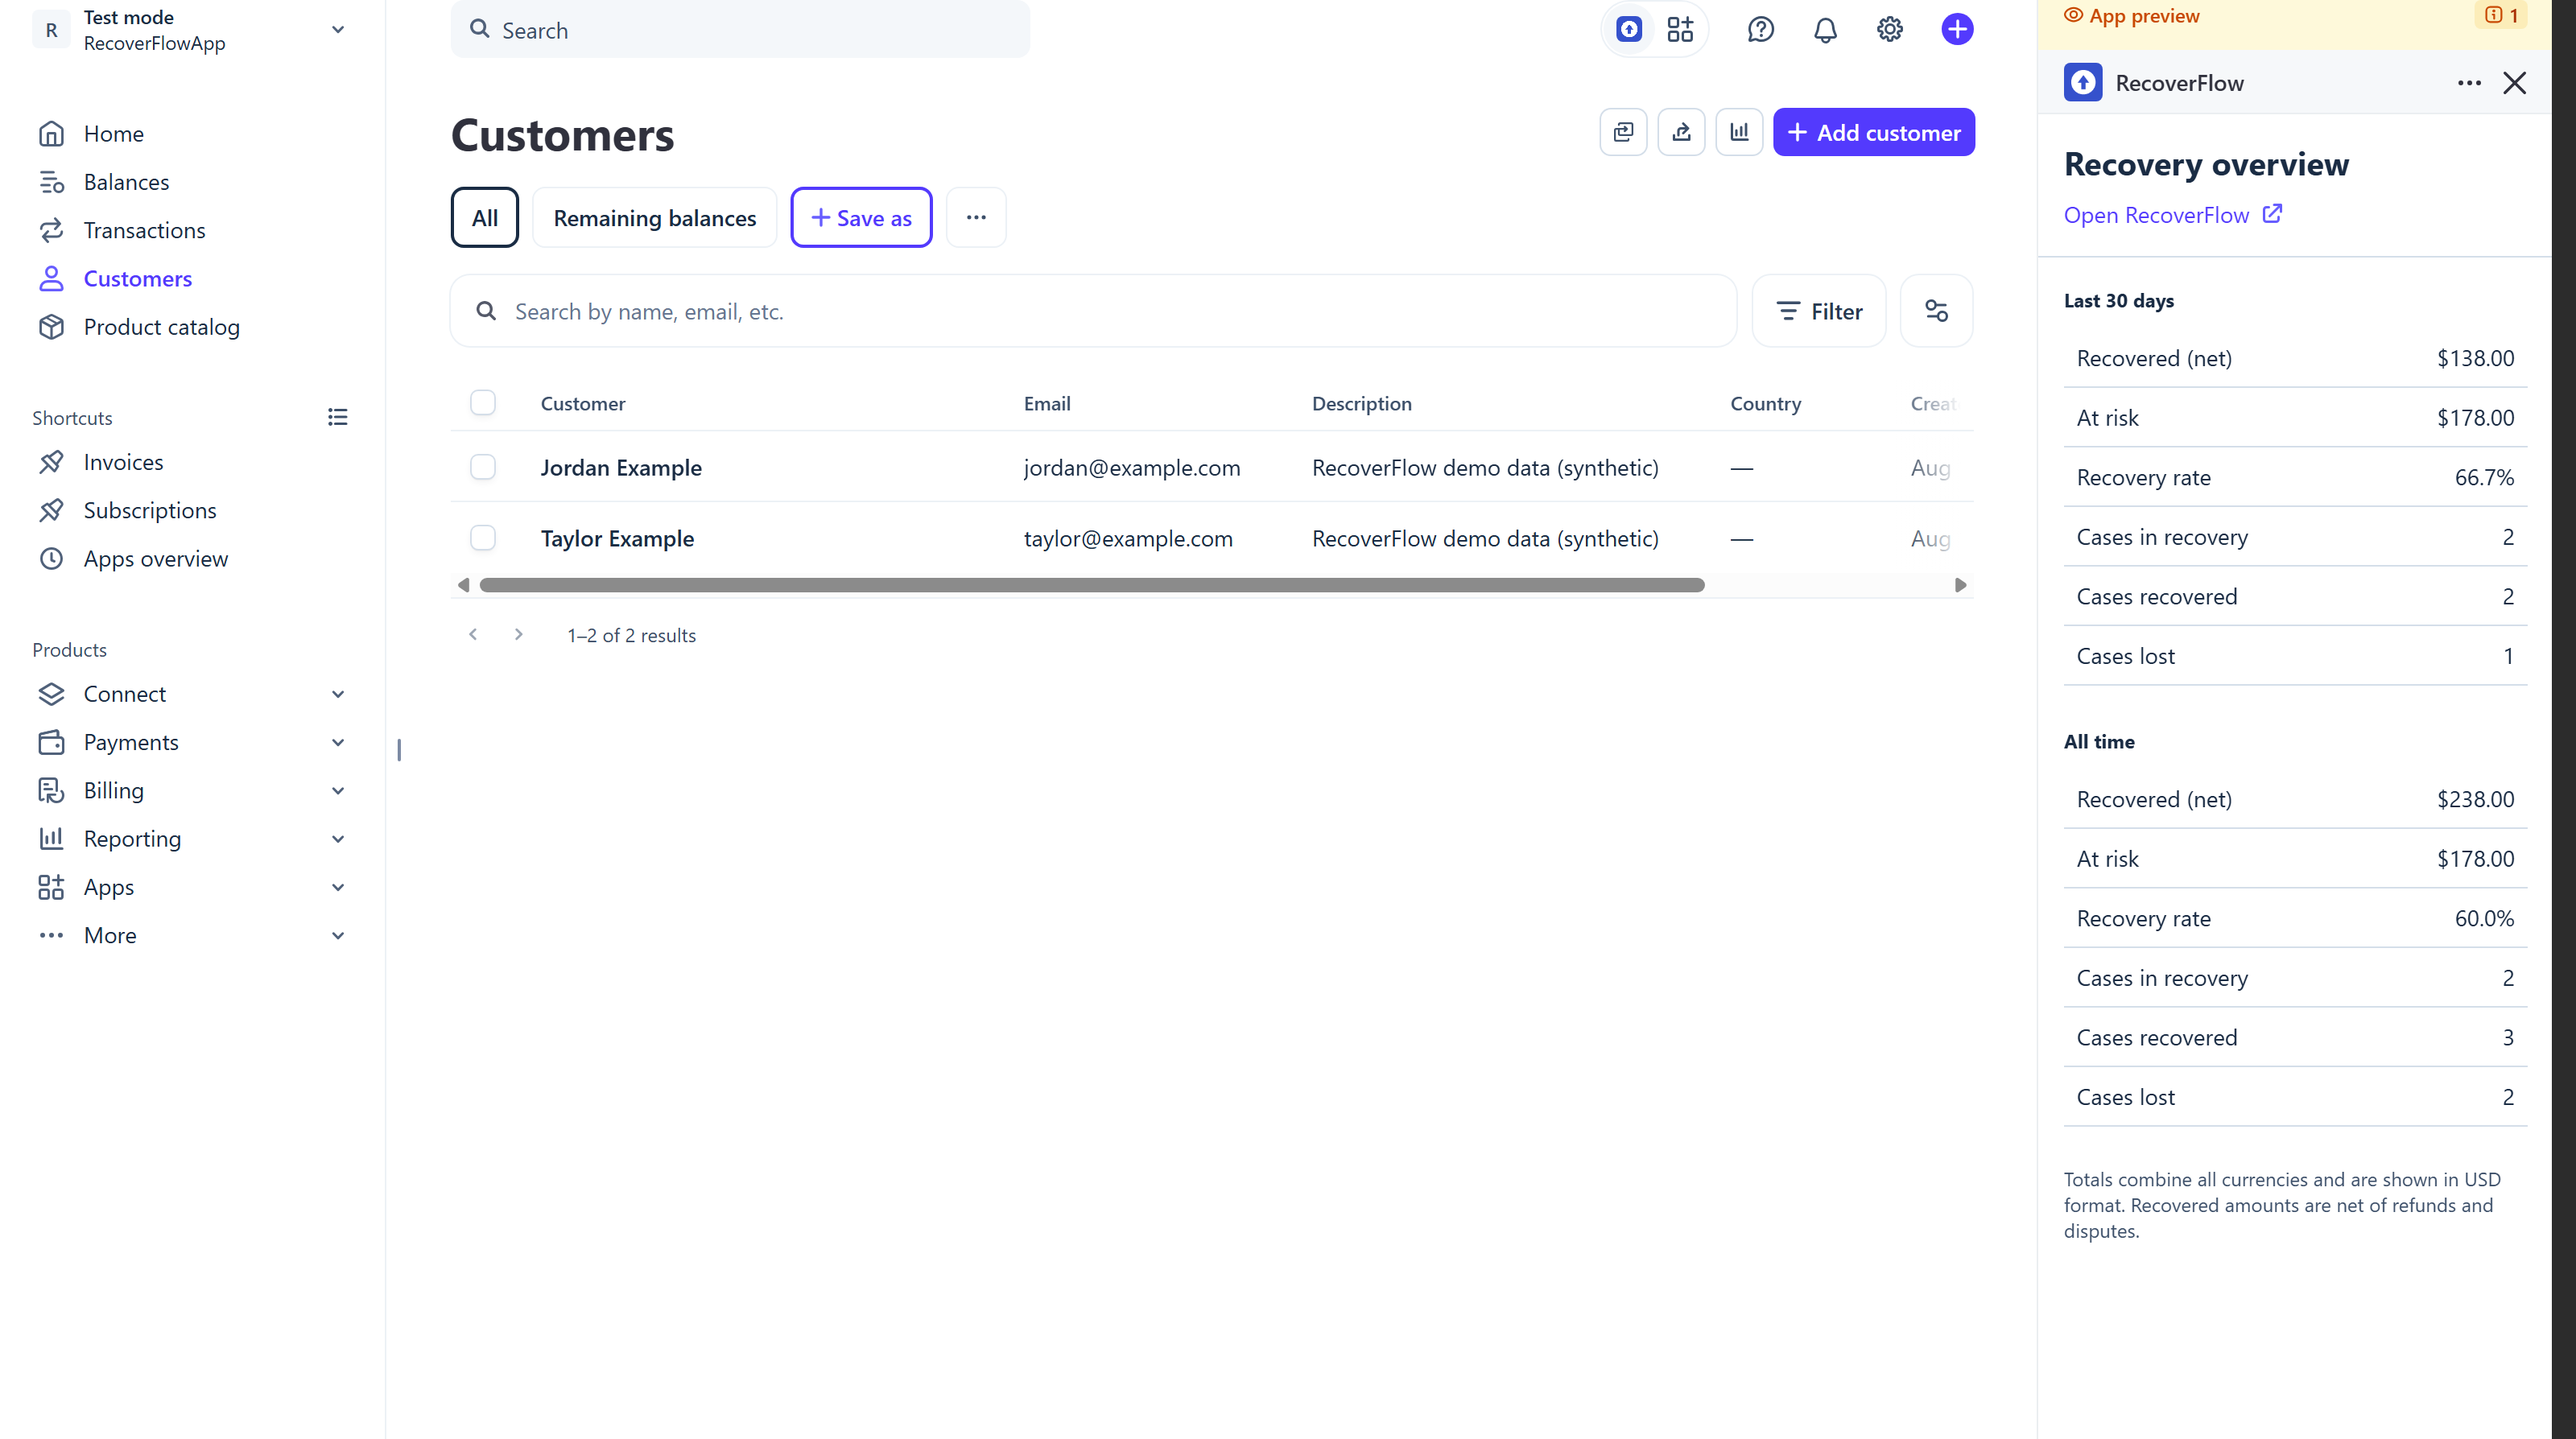
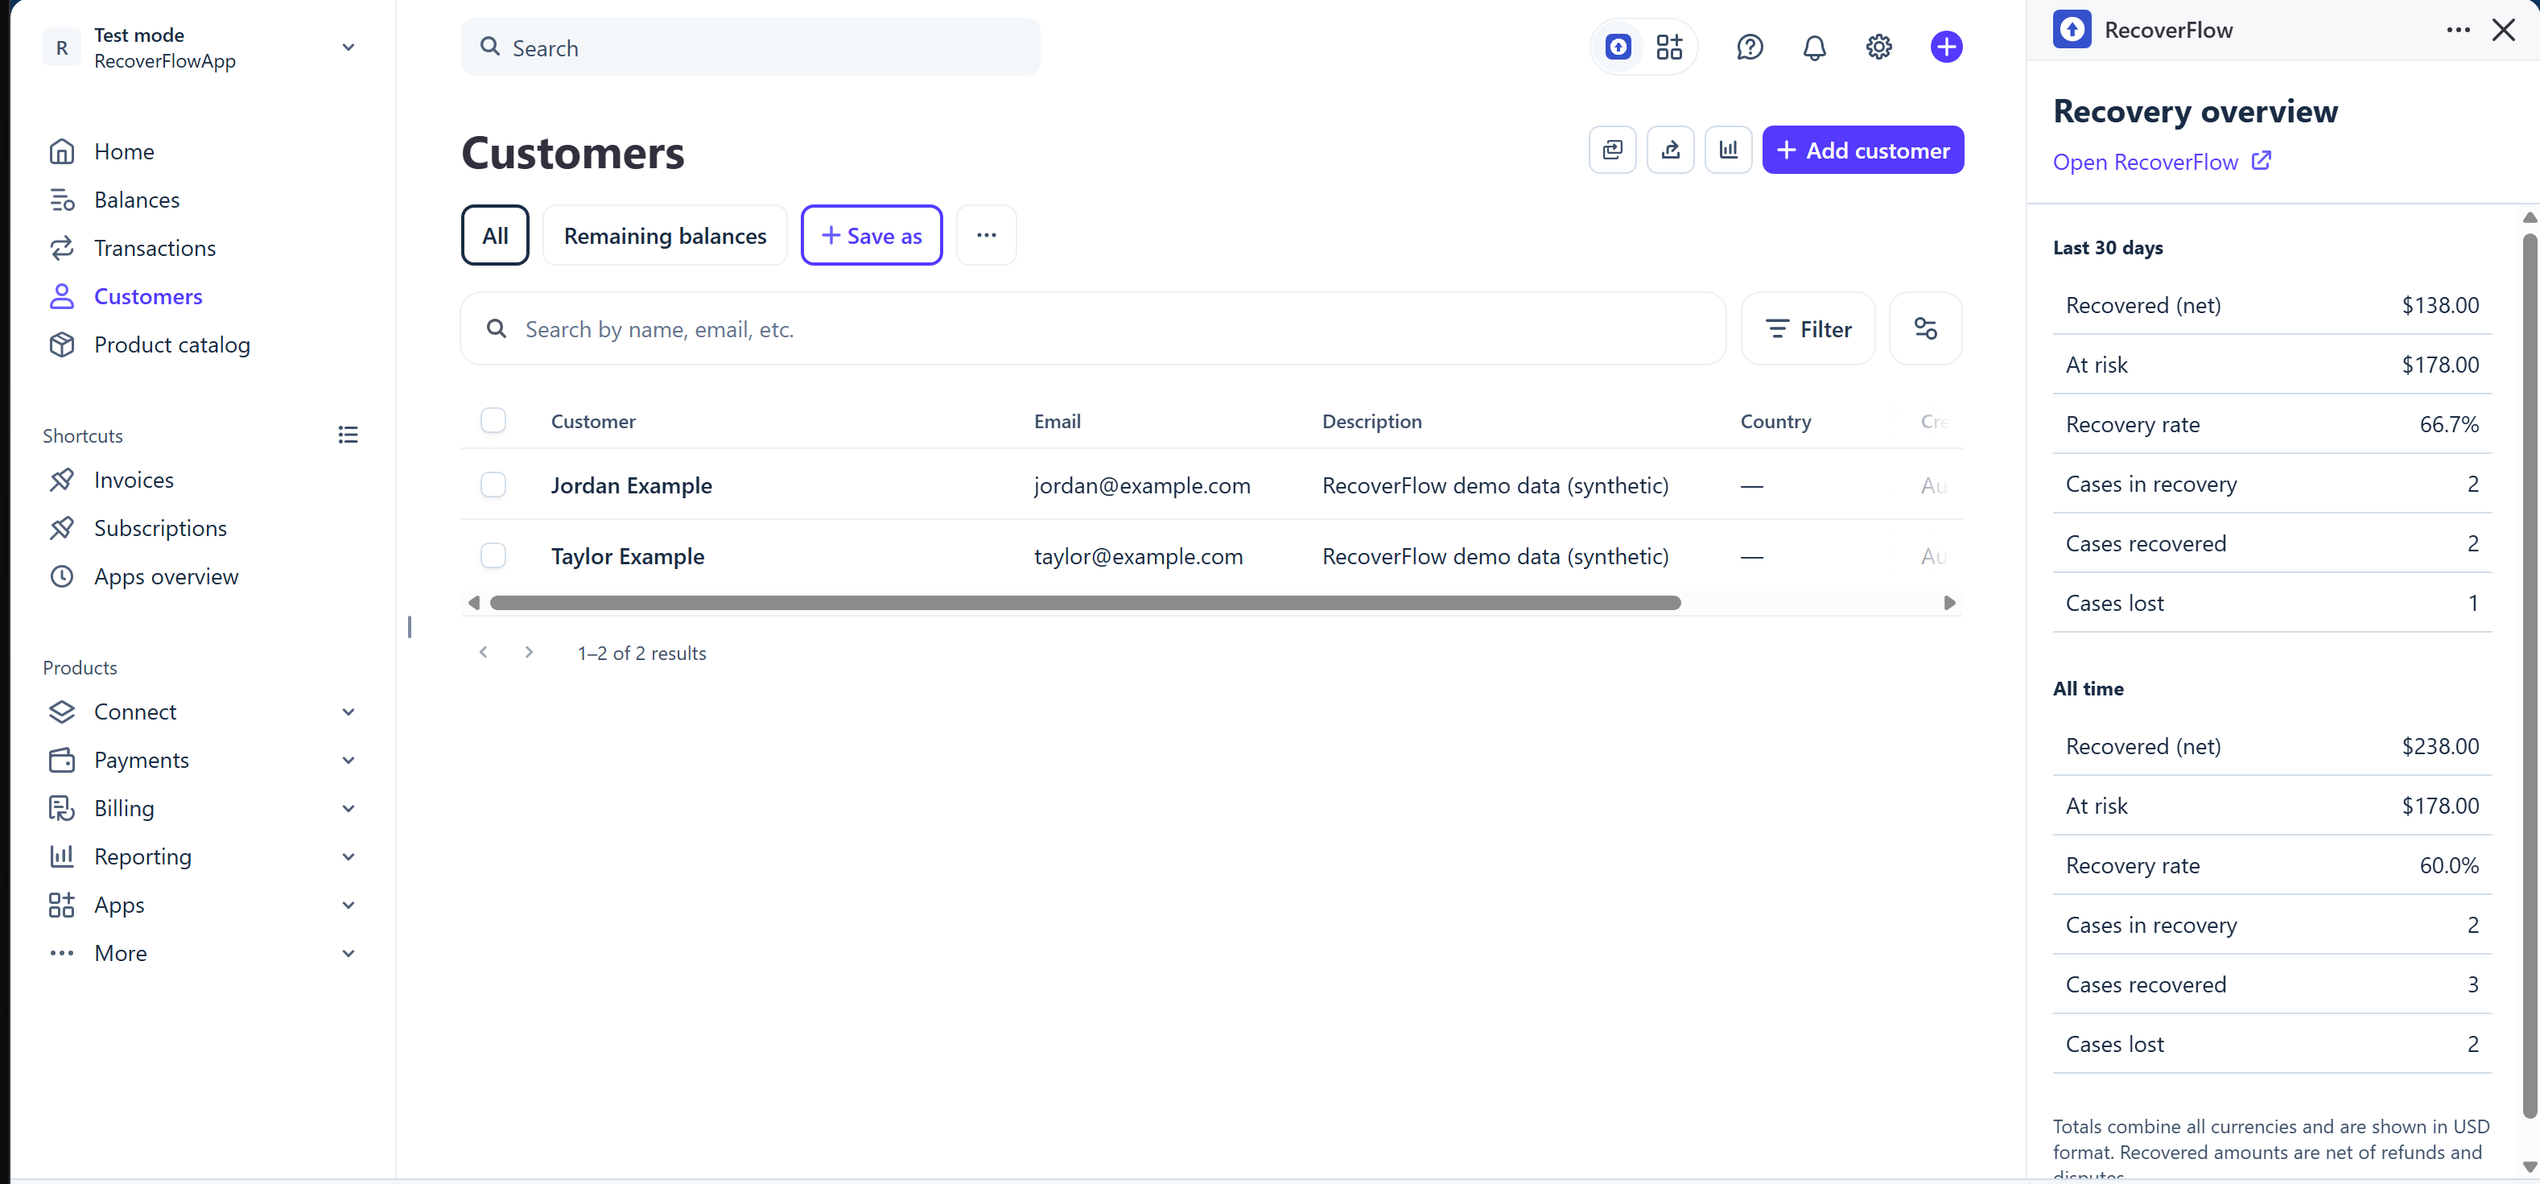
Make the privacy policy and calculator copy match what actually shipped
The privacy policy described a "Retry Waste Audit" Marketplace app from the
abandoned first attempt and said nothing about the Dashboard app now in
Stripe review, which is the app the listing's privacy link points at. It now
describes the free audit as run from the site and documents the Dashboard
app accurately: two read permissions, signed requests, no writes, no new
records.

The retry waste calculator claimed "open the Network tab... No request is
made" while the page loads the same GA and LinkedIn tags as the rest of the
site. Any HN reader would catch that in seconds. The copy now says precisely
what is true: the audit itself sends nothing, the only traffic is the site's
analytics tags, and the audit runs offline.

Also stamps REVIEW_PREP.md as submitted (13 Aug 2026) so nobody reads the
prep checklist as open work, and checks in the final listing screenshots.

diff --git a/docs/privacy/index.html b/docs/privacy/index.html
@@ -158,7 +158,7 @@ s.parentNode.insertBefore(b, s);})(window.lintrk);
   <div class="wrap">
     <p class="eyebrow">Legal</p>
     <h1>Privacy policy</h1>
-    <p class="updated">Last updated 4 August 2026</p>
+    <p class="updated">Last updated 13 August 2026</p>
 
     <div class="lawyer">
   <p><strong>Plain English, not a substitute for legal advice.</strong> RecoverFlow is run by one person and these documents were written to describe accurately what the software actually does, rather than copied from a generator. They have not been reviewed by a solicitor.</p>
@@ -170,7 +170,7 @@ s.parentNode.insertBefore(b, s);})(window.lintrk);
       <ol>
         <li><a href="#roles">The two different roles we play</a></li>
         <li><a href="#collect">What we actually store</a></li>
-        <li><a href="#audit">The Marketplace audit, which stores nothing</a></li>
+        <li><a href="#audit">The free audit and the Dashboard app</a></li>
         <li><a href="#never">What we never store</a></li>
         <li><a href="#emails">Email tracking, stated plainly</a></li>
         <li><a href="#subprocessors">Sub-processors</a></li>
@@ -189,7 +189,7 @@ s.parentNode.insertBefore(b, s);})(window.lintrk);
     <p>If you are subject to the UK GDPR or the EU GDPR, that makes you the controller and RecoverFlow the processor for that data, and you are entitled to a Data Processing Agreement. Email us and you will get one.</p>
 
     <h2 id="collect">2. What we actually store</h2>
-    <p>This list is taken from the database schema rather than written from memory. It describes a full RecoverFlow account. If you only ran the free Marketplace audit, almost none of it applies to you: see <a href="#audit">section 3</a>.</p>
+    <p>This list is taken from the database schema rather than written from memory. It describes a full RecoverFlow account. If you only ran the free audit, almost none of it applies to you: see <a href="#audit">section 3</a>.</p>
     <h3>About you, the merchant</h3>
     <ul>
       <li>Your email address and company name</li>
@@ -214,8 +214,8 @@ s.parentNode.insertBefore(b, s);})(window.lintrk);
       <li>The results of the 90 day backward-looking scan we run when you first connect, which is a summary of what failed and what was estimated recoverable</li>
     </ul>
 
-    <h2 id="audit">3. The Marketplace audit, which stores nothing</h2>
-    <p>The <strong>Retry Waste Audit</strong> on the Stripe Marketplace is a separate thing from the product described above, and it has a much shorter privacy story. Everything in section 2 describes what happens when you sign up for RecoverFlow. Almost none of it applies if you only ran the audit.</p>
+    <h2 id="audit">3. The free audit and the Dashboard app</h2>
+    <p>The free <strong>retry waste audit</strong> you can run from recoverflow.org is a separate thing from the product described above, and it has a much shorter privacy story. Everything in section 2 describes what happens when you sign up for RecoverFlow. Almost none of it applies if you only ran the audit.</p>
     <div class="callout">
       <p><strong>The audit requests read access only, and we do not keep your Stripe access token.</strong> The authorisation code is exchanged solely to learn <em>which</em> Stripe account authorised the audit. Every read after that uses our own platform key with your account identifier in a request header, which means the access token is never written to our database at all.</p>
       <p><strong>Running the audit does not create an account.</strong> No merchant record, no password, no login. An audit is not a signup.</p>
@@ -228,6 +228,14 @@ s.parentNode.insertBefore(b, s);})(window.lintrk);
     <h3>What the audit keeps</h3>
     <p>Nothing. The figures are calculated in memory, written into an email, and sent to you. The report is not stored, and neither are the charges it was calculated from.</p>
     <p>Your email address is used to deliver that one report, through the same email provider listed in the sub-processors section. It is not added to a mailing list and you will not receive anything else because of it. If you would like a copy of the report re-sent, we cannot do it from our records, because we do not have any: you would need to run the audit again.</p>
+
+    <h3>The RecoverFlow app for the Stripe Dashboard</h3>
+    <p>There is also a <strong>RecoverFlow app that runs inside the Stripe Dashboard</strong>. It is a read-only window onto data RecoverFlow already holds for your account, and it creates no new records.</p>
+    <ul>
+      <li>It asks Stripe for two read permissions: the identity of the customer you are viewing and the identity of the invoice you are viewing. They are used to look up the matching recovery cases, and for nothing else.</li>
+      <li>When you open one of its views, a request signed by Stripe is sent to our API. It tells us which Stripe account it came from and which customer or invoice is on screen, and the reply is the recovery data we already hold for that account. If the account has never been connected to RecoverFlow, the reply is that there is nothing to show.</li>
+      <li>The app performs no writes. It cannot create, change or delete anything in your Stripe account or in RecoverFlow.</li>
+    </ul>
 
     <h2 id="never">4. What we never store</h2>
     <div class="callout">

diff --git a/docs/tools/retry-waste-calculator/index.html b/docs/tools/retry-waste-calculator/index.html
@@ -241,7 +241,7 @@ code { font-family: var(--font-mono); font-size: .92em; background: var(--bg-alt
       "name": "Does my export get uploaded anywhere?",
       "acceptedAnswer": {
         "@type": "Answer",
-        "text": "No. The file is read by this page's JavaScript using the browser's FileReader and the arithmetic runs on your own machine. There is no upload, no request, no server, no account and no form to submit. You do not have to take my word for it: open your browser's developer tools, switch to the Network tab, and run the audit. No request is made. You can also disconnect from the internet after the page loads and it will still work."
+        "text": "No. The file is read by this page's JavaScript using the browser's FileReader and the arithmetic runs on your own machine. There is no upload, no server, no account and no form to submit. You do not have to take my word for it: open your browser's developer tools, switch to the Network tab, and run the audit. The audit itself makes no request. The only traffic on this page is the same analytics tags the rest of the site loads, and nothing from your file is in them. You can also disconnect from the internet after the page loads and the audit will still work."
       }
     },
     {
@@ -296,9 +296,11 @@ code { font-family: var(--font-mono); font-size: .92em; background: var(--bg-alt
 
     <p class="local-note">
       <strong>This file never leaves your computer.</strong> The parsing and the arithmetic run
-      in this page's JavaScript. There is no upload, no request, no server involved and no
-      account to make. You can confirm it: open your browser's developer tools, switch to the
-      Network tab, and run the audit. Nothing is sent.
+      in this page's JavaScript. There is no upload, no server involved and no account to make.
+      You can confirm it: open your browser's developer tools, switch to the Network tab, and
+      run the audit. The audit itself sends nothing. The only requests on this page are the
+      same analytics tags the rest of the site loads, and they never see your file. You can
+      even load the page, go offline, and run the audit disconnected.
     </p>
 
     <div id="fileOut" hidden></div>
@@ -341,7 +343,7 @@ code { font-family: var(--font-mono); font-size: .92em; background: var(--bg-alt
   <details><summary>What if I cannot export right now?</summary><p>Use the manual entry further up the page. It asks for counts per decline code and one average invoice amount, so it gives you the same percentages but a rougher money figure. The export is better because it uses your real amounts rather than one average across every failure.</p></details>
   <details><summary>Where do I find decline codes one at a time?</summary><p>In the Stripe Dashboard, filter Payments to failed, or filter Invoices to unpaid and open the latest payment attempt on each. The decline code sits on the failed PaymentIntent as last_payment_error.decline_code.</p></details>
   <details><summary>Is there really a cap on retries?</summary><p>Visa's Excessive Reattempts Rule caps reattempts at 15 in a rolling 30 day window. Stripe cites that rule and says it will automatically block subsequent retry attempts, but only where it determines there is a low chance of a successful authorisation. So it is discretionary, and Stripe does not say it keeps you compliant on your behalf. This report counts attempts per card while Visa states the rule per payment, which makes the count a conservative upper bound rather than a compliance verdict. Most recovery tools do not show you where you stand against it at all.</p></details>
-  <details><summary>Does my export get uploaded anywhere?</summary><p>No. The file is read by this page's JavaScript using the browser's FileReader and the arithmetic runs on your own machine. There is no upload, no request, no server, no account and no form to submit. You do not have to take my word for it: open your browser's developer tools, switch to the Network tab, and run the audit. No request is made. You can also disconnect from the internet after the page loads and it will still work.</p></details>
+  <details><summary>Does my export get uploaded anywhere?</summary><p>No. The file is read by this page's JavaScript using the browser's FileReader and the arithmetic runs on your own machine. There is no upload, no server, no account and no form to submit. You do not have to take my word for it: open your browser's developer tools, switch to the Network tab, and run the audit. The audit itself makes no request. The only traffic on this page is the same analytics tags the rest of the site loads, and nothing from your file is in them. You can also disconnect from the internet after the page loads and the audit will still work.</p></details>
   <details><summary>Why is a vendor telling me I might not need the product?</summary><p>Because the number is only worth anything if it is not a sales tool. If most of your failures are ordinary retryable declines, more retries genuinely is the right answer and Stripe already does that for free. Saying so costs one sale and is the only reason to believe the report when it comes back high.</p></details>
 </div>
   </div>

diff --git a/stripe-dashboard-app/listing/REVIEW_PREP.md b/stripe-dashboard-app/listing/REVIEW_PREP.md
@@ -1,5 +1,9 @@
 # Review preparation checklist
 
+> **Status: SUBMITTED.** RecoverFlow 0.0.2 went into Stripe App Marketplace review on
+> 13 Aug 2026 (app page reads "0.0.2 (reviewing marketplace listing)"). The checklist
+> below is the historical prep record, not a list of open work.
+
 App id `com.recoverflow.dashboard`. What must be true before Bruce clicks Submit.
 Requirements per Stripe's publishing guide and review requirements, as recorded in
 the research file on 12 August 2026.
